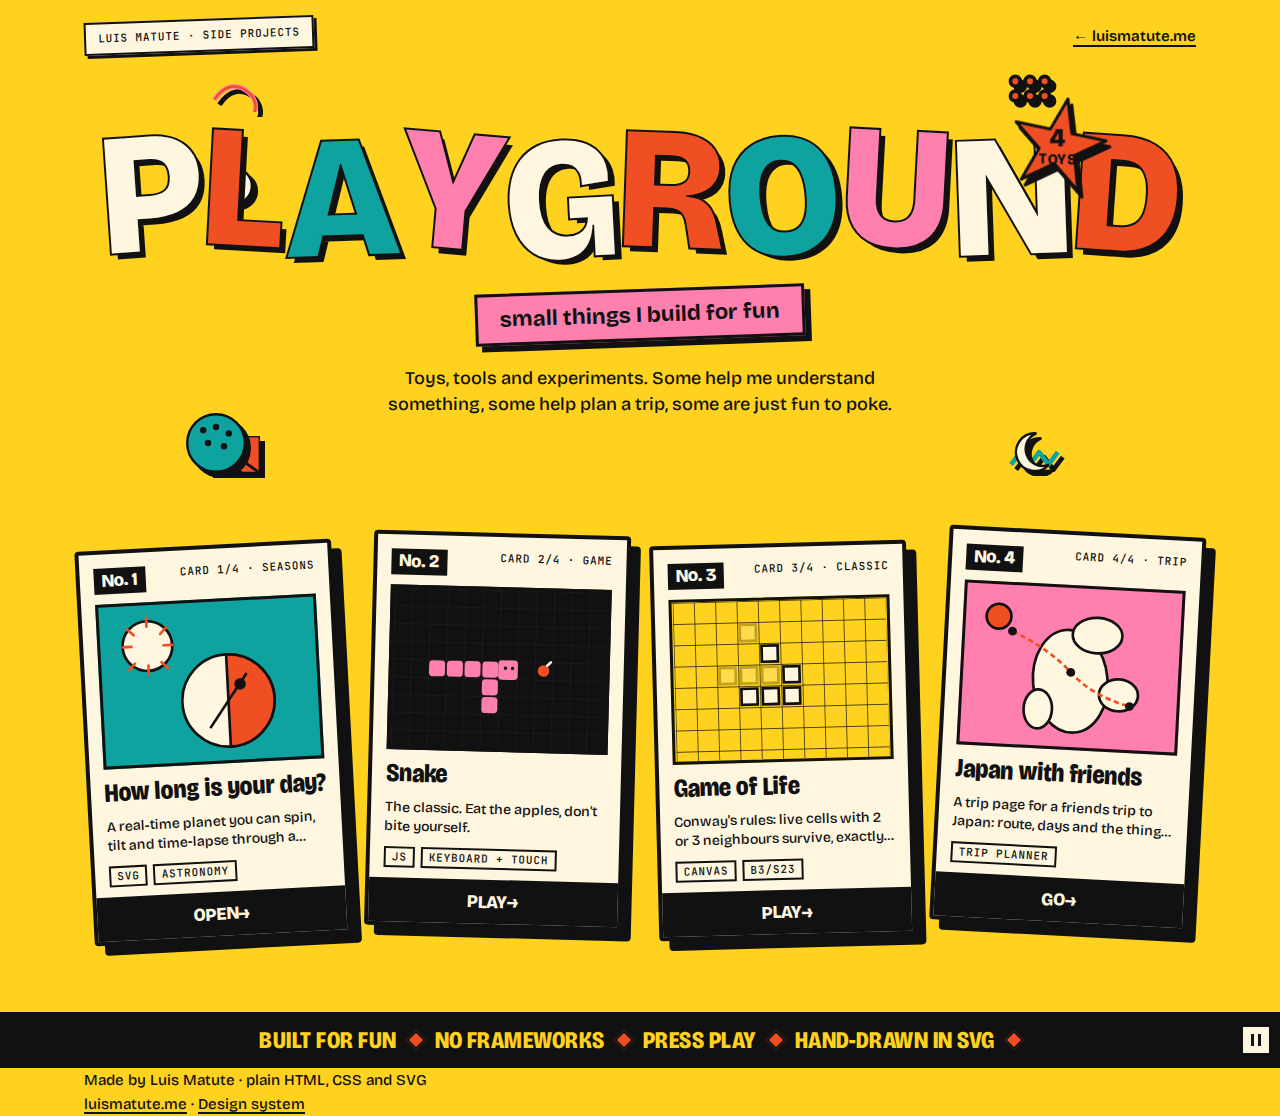
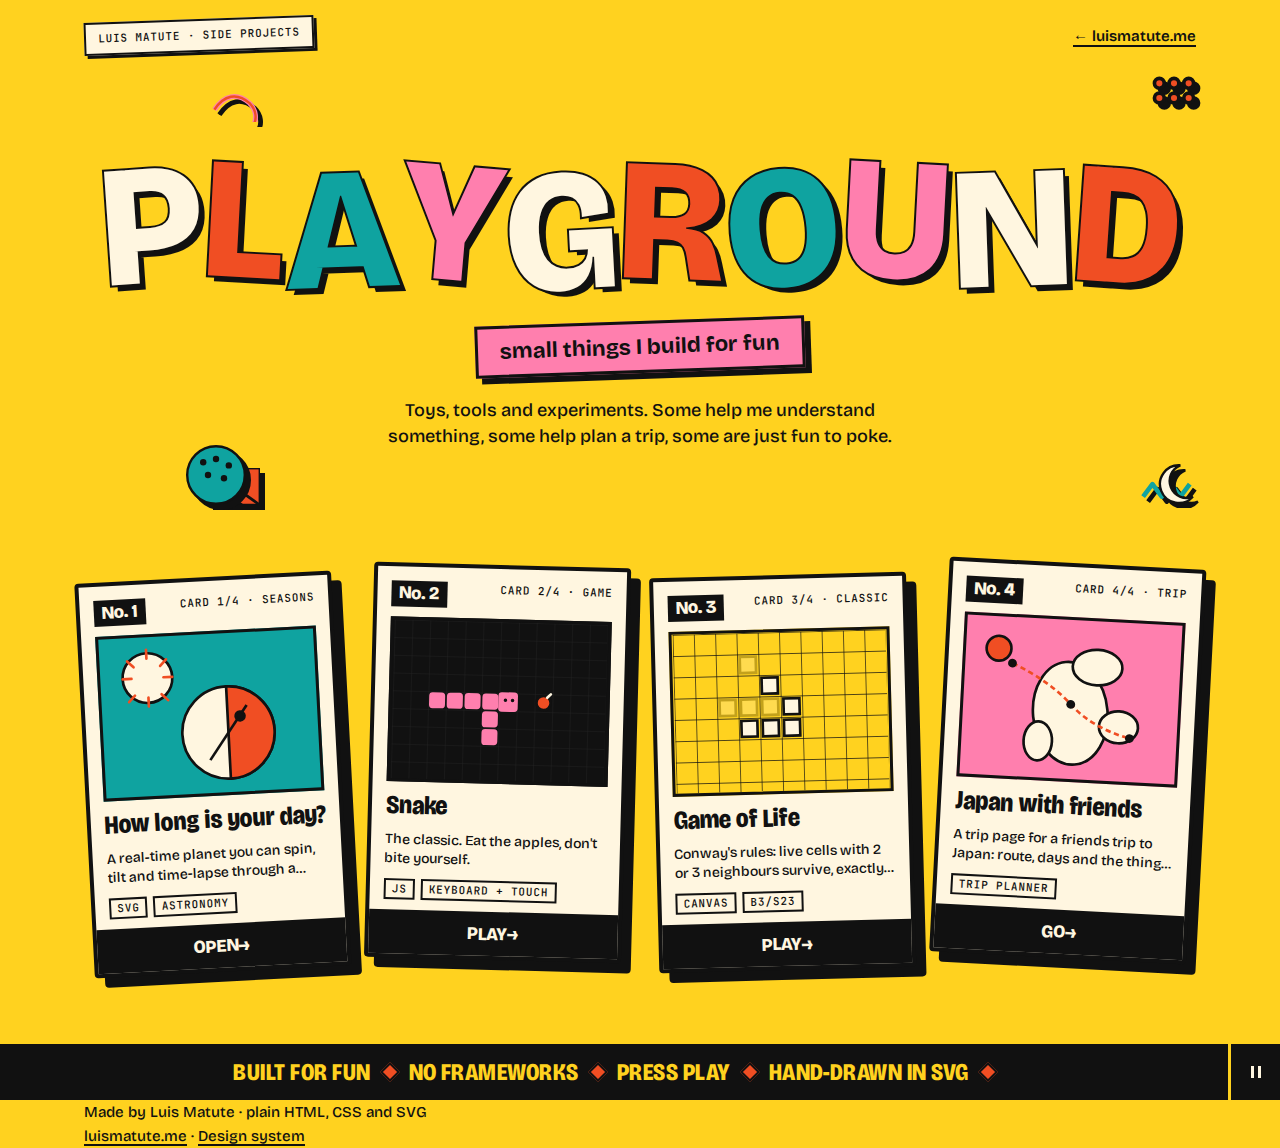
fix(playground): overlap QA, starburst placement, full-bleed marquee

diff --git a/playground/index.html b/playground/index.html
@@ -32,7 +32,7 @@ a{color:inherit}
 .back-link{font:600 15px/1.2 var(--text);text-decoration:underline;text-underline-offset:4px;text-decoration-thickness:2px}
 .back-link:focus-visible{outline:4px solid var(--tomato);outline-offset:4px}
 @media(max-width:640px){.back-link{display:none}}
-.hero{position:relative;padding:48px 0 64px;text-align:center}
+.hero{position:relative;padding:48px 0 64px;text-align:center;overflow-x:clip}
 .title{font-family:var(--display);font-size:var(--h1);font-weight:800;font-stretch:100%;line-height:.86;letter-spacing:-.01em;text-transform:uppercase;margin:0 auto;display:flex;flex-wrap:nowrap;justify-content:center;gap:0 .02em;width:100%;position:relative;z-index:2}
 .title-break{flex-basis:100%;width:0;height:0;overflow:hidden;margin:0;padding:0;display:none}
 @media(max-width:640px){.title{font-stretch:75%}}
@@ -46,30 +46,31 @@ body.ready .title span:nth-child(1){transform:rotate(-4deg) translateY(0)}body.r
 .ribbon{display:inline-block;background:var(--pink);border:var(--line) solid var(--ink);box-shadow:var(--shadow);transform:rotate(-2deg);padding:10px 22px;font:700 22px/1.2 var(--text)}
 .hero-narrow{position:relative;z-index:2;max-width:720px;margin:0 auto;padding-inline:8px}
 .lede{max-width:46ch;margin:24px auto 0;font-size:18px}
+@media(min-width:641px){.hero{padding-top:80px}}
 @media(max-width:640px){.hero{padding-top:56px;padding-bottom:100px}.lede{padding-inline:12px;max-width:38ch}}
-.ribbon-row{position:relative;display:inline-block;max-width:100%;margin-top:20px}
-.ribbon{margin:0}
+.ribbon-row{position:relative;display:inline-flex;align-items:center;justify-content:center;gap:4px;max-width:100%;margin-top:20px;flex-wrap:nowrap}
+.ribbon{margin:0;flex:0 1 auto}
+@media(max-width:640px){.ribbon-row{align-items:flex-start}.badge-star{position:relative;top:auto!important;left:auto!important;right:auto!important;transform:rotate(12deg);margin:-6px -10px 0 0;flex-shrink:0}}
+@media(min-width:641px){.ribbon-row{display:block;position:static}}
 .badge-star{position:absolute;width:100px;height:100px;transform:rotate(12deg);filter:drop-shadow(5px 5px 0 #111);z-index:4;pointer-events:none}
 .badge-star svg{display:block;width:100%;height:100%}
 .badge-star-label{position:absolute;inset:0;display:flex;flex-direction:column;align-items:center;justify-content:center;font-family:var(--display);font-weight:800;color:var(--ink);line-height:1.05;text-align:center;transform:rotate(-12deg)}
 .badge-star-label span:first-child{font-size:26px}
 .badge-star-label span:last-child{font-size:15px;letter-spacing:.04em}
 .badge-star-label{-webkit-text-stroke:0}
-@media(min-width:760px){.badge-star{left:calc(50% + 368px);right:auto;top:24px;width:100px;height:100px}}
-@media(min-width:641px) and (max-width:759px){.badge-star{right:max(8px,var(--gutter));left:auto;top:20px;width:88px;height:88px}}
-@media(max-width:640px){.badge-star{width:72px;height:72px}.badge-star-label span:first-child{font-size:22px}.badge-star-label span:last-child{font-size:12px;letter-spacing:.06em}.ribbon{padding-right:18px}}
+@media(max-width:640px){.badge-star{width:64px;height:64px}.badge-star-label span:first-child{font-size:20px}.badge-star-label span:last-child{font-size:11px;letter-spacing:.06em}}
 .stickers{pointer-events:none;position:absolute;inset:0;z-index:1;overflow:visible}
 .stk{position:absolute;filter:drop-shadow(5px 5px 0 #111)}
-.stk-sq{left:max(4px,var(--gutter));top:2px;width:64px}
+.stk-sq{left:max(4px,var(--gutter));top:12px;width:64px}
 .stk-dots{right:max(4px,var(--gutter));top:2px;width:44px}
-.stk-ring{left:-22px;top:88px;width:52px}
+.stk-ring{left:-22px;top:auto;bottom:18px;width:52px}
 .stk-tri{left:max(16px,var(--gutter));bottom:12px;width:44px}
 .stk-plus{left:max(4px,var(--gutter));top:248px;width:32px}
 .stk-zig{right:max(4px,var(--gutter));top:248px;width:56px}
 .stk-strip{left:max(56px,var(--gutter));bottom:8px;width:52px}
 .stk-polka{left:-38px;bottom:6px;width:64px}
 .stk-moon{right:-22px;bottom:10px;width:44px}
-@media(min-width:760px){.stk-sq,.stk-ring,.stk-tri,.stk-strip{left:max(8px,calc(50% - 432px));right:auto}.stk-plus{left:max(8px,calc(50% - 432px));top:auto;bottom:14px}.stk-polka{left:max(-42px,calc(50% - 456px));bottom:6px}.stk-dots,.stk-zig,.stk-moon{left:calc(50% + 368px);right:auto}.stk-dots{top:2px}.stk-zig{top:auto;bottom:14px}.stk-moon{bottom:10px}}
+@media(min-width:760px){.stk-sq,.stk-tri,.stk-strip{left:max(8px,calc(50% - 432px));right:auto}.stk-ring{left:max(-22px,calc(50% - 456px));top:auto;bottom:18px}.stk-plus{left:max(8px,calc(50% - 432px));top:auto;bottom:14px}.stk-polka{left:max(-42px,calc(50% - 456px));bottom:6px}.stk-dots{right:max(8px,var(--gutter));left:auto;top:4px}.stk-zig{right:max(8px,var(--gutter));left:auto;top:auto;bottom:14px}.stk-moon{right:max(-12px,var(--gutter));left:auto;bottom:10px}}
 @media(max-width:640px){.stk-plus,.stk-tri,.stk-strip,.stk-moon{display:none}.stk-sq{top:4px;left:20px;width:50px}.stk-dots{top:4px;right:20px;width:36px}.stk-ring{top:auto;bottom:16px;left:20px;width:40px}.stk-zig{bottom:16px;right:20px;top:auto;width:48px}.stk-polka{left:8px;top:auto;bottom:10px;width:48px;transform:scale(.6);transform-origin:bottom left}}
 @media(min-width:641px) and (max-width:900px){.stk-sq,.stk-dots{width:60px}}
 @media(min-width:1920px){.stk{transform:scale(1.15);transform-origin:center}}
@@ -109,16 +110,18 @@ body.ready .toy-card:nth-child(1){transition-delay:400ms}body.ready .toy-card:nt
 .tags span{font:600 var(--label)/1.2 var(--mono);letter-spacing:.08em;text-transform:uppercase;border:2px solid var(--ink);background:var(--cream);padding:2px 6px}
 .btn-bar{margin-top:auto;margin-inline:-14px;margin-bottom:-14px;background:var(--ink);color:var(--cream);min-height:var(--tap);display:flex;align-items:center;justify-content:center;font-family:var(--display);font-weight:800;font-size:18px;transition:background var(--t-ui) var(--ease-out)}
 .btn-bar b{display:inline-block;transition:transform var(--t-ui) var(--ease-out)}
-.marquee-wrap{margin-top:80px;position:relative;background:var(--ink);height:56px;overflow:hidden}
+.marquee-wrap{margin-top:80px;width:100%;display:flex;align-items:stretch;background:var(--ink);height:56px;overflow:hidden;box-sizing:border-box}
 @media(max-width:640px){.marquee-wrap{height:48px;margin-top:56px}}
+.marquee-viewport{flex:1;min-width:0;overflow:hidden;position:relative}
 .marquee-track{display:flex;width:max-content;white-space:nowrap;animation:marquee 40s linear infinite}
 .marquee-wrap:hover .marquee-track,.marquee-wrap:focus-within .marquee-track,.marquee-wrap.is-paused .marquee-track{animation-play-state:paused}
 @keyframes marquee{to{transform:translateX(-50%)}}
 .marquee-row{display:flex;align-items:center;gap:24px;padding:0 24px;font-family:var(--display);font-weight:800;font-stretch:88%;font-size:24px;letter-spacing:.02em;color:var(--sun);height:56px}
 @media(max-width:640px){.marquee-row{font-size:20px;height:48px}}
 .marquee-row .dia{width:14px;height:14px;background:var(--tomato);border:2px solid var(--ink);transform:rotate(45deg);flex-shrink:0}
-.marquee-toggle{position:absolute;right:8px;top:50%;transform:translateY(-50%);width:32px;height:32px;border:var(--line) solid var(--ink);background:var(--cream);cursor:pointer;padding:0;display:flex;align-items:center;justify-content:center}
-@media(max-width:640px){.marquee-toggle{width:44px;height:44px;right:4px}}
+.marquee-toggle{flex:0 0 52px;width:52px;border:0;border-left:var(--line) solid var(--sun);background:var(--ink);cursor:pointer;padding:0;display:flex;align-items:center;justify-content:center;align-self:stretch}
+.marquee-toggle svg rect,.marquee-toggle svg polygon{fill:var(--cream)}
+@media(max-width:640px){.marquee-toggle{flex-basis:56px;width:56px}}
 .marquee-toggle:focus-visible{outline:4px solid var(--tomato);outline-offset:2px}
 @media(prefers-reduced-motion:reduce){
 .marquee-track{animation:none;transform:none!important;width:100%;justify-content:center}
@@ -158,9 +161,8 @@ body:not(.ready) .title span,body:not(.ready) .toy-card{opacity:1}
 <svg class="stk stk-moon" viewBox="0 0 56 56" aria-hidden="true"><path d="M36 8a24 24 0 1 0 16 40A20 20 0 0 1 36 8z" fill="var(--cream)" stroke="var(--ink)" stroke-width="3"/></svg>
 </div>
 <h1 class="title" aria-label="Playground"><span class="c0" aria-hidden="true">P</span><span class="c1" aria-hidden="true">L</span><span class="c2" aria-hidden="true">A</span><span class="c3" aria-hidden="true">Y</span><span class="title-break" aria-hidden="true"></span><span class="c0" aria-hidden="true">G</span><span class="c1" aria-hidden="true">R</span><span class="c2" aria-hidden="true">O</span><span class="c3" aria-hidden="true">U</span><span class="c0" aria-hidden="true">N</span><span class="c1" aria-hidden="true">D</span></h1>
-<div class="badge-star" aria-hidden="true"><svg viewBox="0 0 100 100" aria-hidden="true"><polygon points="50,2 61,35 96,35 68,56 79,90 50,68 21,90 32,56 4,35 39,35" fill="#f04e23" stroke="#111" stroke-width="3" stroke-linejoin="round"/></svg><div class="badge-star-label"><span>4</span><span>TOYS</span></div></div>
 <div class="hero-narrow">
-<div class="ribbon-row"><p class="ribbon">small things I build for fun</p></div>
+<div class="ribbon-row"><p class="ribbon">small things I build for fun</p><div class="badge-star" aria-hidden="true"><svg viewBox="0 0 100 100" aria-hidden="true"><polygon points="50,2 61,35 96,35 68,56 79,90 50,68 21,90 32,56 4,35 39,35" fill="#f04e23" stroke="#111" stroke-width="3" stroke-linejoin="round"/></svg><div class="badge-star-label"><span>4</span><span>TOYS</span></div></div></div>
 <p class="lede">Toys, tools and experiments. Some help me understand something, some help plan a trip, some are just fun to poke.</p>
 </div>
 </header>
@@ -202,11 +204,11 @@ body:not(.ready) .title span,body:not(.ready) .toy-card{opacity:1}
 </div>
 </main>
 <div class="marquee-wrap" id="marquee">
-<div class="marquee-track">
+<div class="marquee-viewport"><div class="marquee-track">
 <div class="marquee-row"><span>BUILT FOR FUN</span><span class="dia" aria-hidden="true"></span><span>NO FRAMEWORKS</span><span class="dia" aria-hidden="true"></span><span>PRESS PLAY</span><span class="dia" aria-hidden="true"></span><span>HAND-DRAWN IN SVG</span><span class="dia" aria-hidden="true"></span></div>
 <div class="marquee-row" aria-hidden="true"><span>BUILT FOR FUN</span><span class="dia"></span><span>NO FRAMEWORKS</span><span class="dia"></span><span>PRESS PLAY</span><span class="dia"></span><span>HAND-DRAWN IN SVG</span><span class="dia"></span></div>
-</div>
-<button type="button" class="marquee-toggle" id="marqueeBtn" aria-label="Pause marquee" aria-pressed="false"><svg width="14" height="14" viewBox="0 0 14 14" aria-hidden="true"><rect x="2" y="1" width="3" height="12" fill="var(--ink)"/><rect x="9" y="1" width="3" height="12" fill="var(--ink)"/></svg></button>
+</div></div>
+<button type="button" class="marquee-toggle" id="marqueeBtn" aria-label="Pause marquee" aria-pressed="false"><svg width="14" height="14" viewBox="0 0 14 14" aria-hidden="true"><rect x="2" y="1" width="3" height="12" fill="var(--cream)"/><rect x="9" y="1" width="3" height="12" fill="var(--cream)"/></svg></button>
 </div>
 <footer class="wrap">
 Made by Luis Matute · plain HTML, CSS and SVG<br>
@@ -219,11 +221,11 @@ function chipLabel(){if(window.matchMedia('(max-width:640px)').matches){chip.hid
 chipLabel();window.addEventListener('resize',chipLabel);
 if(!window.matchMedia('(prefers-reduced-motion: reduce)').matches)requestAnimationFrame(function(){requestAnimationFrame(function(){document.body.classList.add('ready')})});else document.body.classList.add('ready');
 var mq=document.getElementById('marquee'),btn=document.getElementById('marqueeBtn');
-btn.addEventListener('click',function(){var p=mq.classList.toggle('is-paused');btn.setAttribute('aria-pressed',p?'true':'false');btn.setAttribute('aria-label',p?'Play marquee':'Pause marquee');btn.innerHTML=p?'<svg width="14" height="14" viewBox="0 0 14 14" aria-hidden="true"><polygon points="3,1 12,7 3,13" fill="var(--ink)"/></svg>':'<svg width="14" height="14" viewBox="0 0 14 14" aria-hidden="true"><rect x="2" y="1" width="3" height="12" fill="var(--ink)"/><rect x="9" y="1" width="3" height="12" fill="var(--ink)"/></svg>'});
+btn.addEventListener('click',function(){var p=mq.classList.toggle('is-paused');btn.setAttribute('aria-pressed',p?'true':'false');btn.setAttribute('aria-label',p?'Play marquee':'Pause marquee');btn.innerHTML=p?'<svg width="14" height="14" viewBox="0 0 14 14" aria-hidden="true"><polygon points="3,1 12,7 3,13" fill="var(--cream)"/></svg>':'<svg width="14" height="14" viewBox="0 0 14 14" aria-hidden="true"><rect x="2" y="1" width="3" height="12" fill="var(--cream)"/><rect x="9" y="1" width="3" height="12" fill="var(--cream)"/></svg>'});
 var track=document.querySelector('.marquee-track');
 if(track&&!window.matchMedia('(prefers-reduced-motion: reduce)').matches){var half=track.scrollWidth/2;track.style.animationDuration=(half/40)+'s'}
 var badge=document.querySelector('.badge-star'),ribbon=document.querySelector('.ribbon'),hero=document.querySelector('.hero');
-function syncBadge(){if(!badge||!ribbon||!hero)return;if(window.matchMedia('(max-width:640px)').matches){var h=hero.getBoundingClientRect(),r=ribbon.getBoundingClientRect();badge.style.top=(r.top-h.top+r.height/2-36)+'px';badge.style.right=Math.max(6,h.right-r.right+2)+'px';badge.style.left='auto'}else{badge.style.removeProperty('top');badge.style.removeProperty('right');badge.style.removeProperty('left')}}
+function syncBadge(){if(!badge||!hero||window.matchMedia('(max-width:640px)').matches){badge.style.removeProperty('top');badge.style.removeProperty('left');return}var title=document.querySelector('.title'),topbar=document.querySelector('.topbar');if(!title)return;function hit(a,b){return!(a.right<=b.left||a.left>=b.right||a.bottom<=b.top||a.top>=b.bottom)}var letters=[].slice.call(document.querySelectorAll('.title span:not(.title-break)')),hb=hero.getBoundingClientRect(),size=window.matchMedia('(min-width:760px)').matches?88:72;badge.style.width=badge.style.height=size+'px';badge.style.position='absolute';var minLt=Math.min.apply(null,letters.map(function(el){return el.getBoundingClientRect().top})),maxRt=Math.max.apply(null,letters.map(function(el){return el.getBoundingClientRect().right})),top=minLt-hb.top-size-20,left=maxRt-hb.left+22;badge.style.right='auto';for(var i=0;i<24;i++){badge.style.top=Math.max(8,top)+'px';badge.style.left=Math.min(left,hb.width-size-4)+'px';var bad=badge.getBoundingClientRect(),coll=false;letters.forEach(function(el){if(hit(bad,el.getBoundingClientRect()))coll=true});if(topbar&&hit(bad,topbar.getBoundingClientRect()))coll=true;if(!coll)break;top-=12;left+=6}}
 function titleWrap(){var t=document.querySelector('.title'),br=document.querySelector('.title-break');if(!t||!br)return;if(window.matchMedia('(min-width:900px)').matches){br.style.display='none';t.style.flexWrap='nowrap';return}br.style.display='none';t.style.flexWrap='nowrap';if(t.scrollWidth>t.clientWidth+2){br.style.display='block';t.style.flexWrap='wrap'}}
 syncBadge();titleWrap();window.addEventListener('resize',function(){syncBadge();titleWrap()});if(document.fonts&&document.fonts.ready)document.fonts.ready.then(function(){syncBadge();titleWrap()});
 })();
